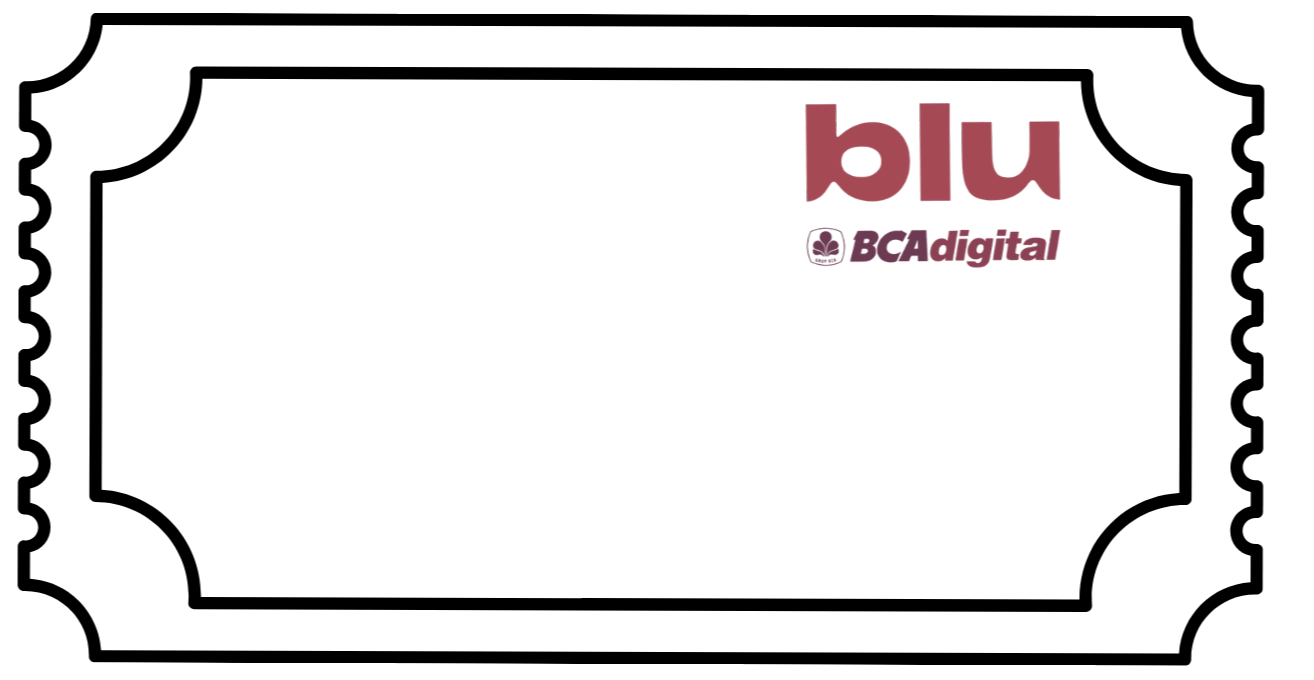
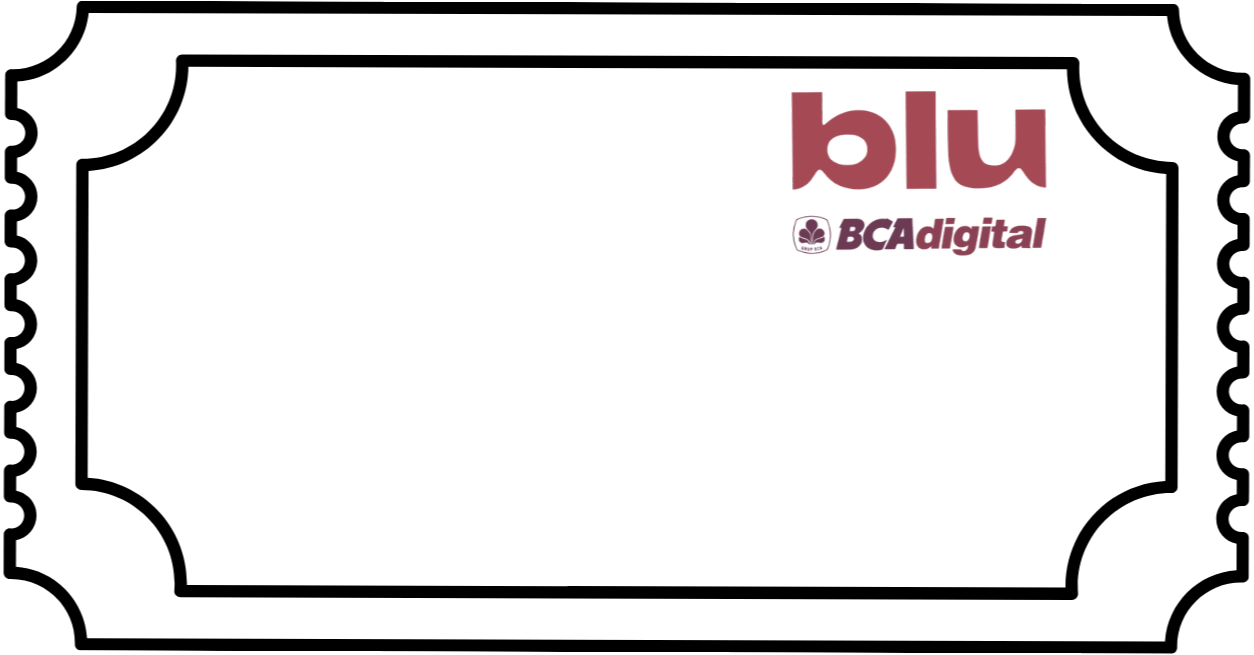
tampilkan semua rekening dan update gambar rekening

Changed region(s): [[0.0, 0.0, 1.0, 1.0], [0.5909, 0.3359, 0.8397, 0.3969]]

diff --git a/src/components/invite/gift-section.tsx b/src/components/invite/gift-section.tsx
@@ -23,7 +23,6 @@ export default function GiftSection({ bankAccounts, qris, settings }: GiftSectio
 
   const [showModal, setShowModal] = useState(false);
   const [copiedId, setCopiedId] = useState<string | null>(null);
-  const primaryAccount = bankAccounts[0] ?? null;
 
   const handleCopy = useCallback(async (account: BankAccount) => {
     try {
@@ -169,68 +168,70 @@ export default function GiftSection({ bankAccounts, qris, settings }: GiftSectio
               </div>
 
               <div className="space-y-6">
-                {hasTransfer && primaryAccount && (
-                  <motion.div
-                    variants={containerVariants}
-                    initial="hidden"
-                    animate="visible"
-                    className="space-y-4"
-                  >
-                    <div className="relative mx-auto flex max-w-[420px] justify-center">
-                      <Image
-                        src="/images/rekening.png"
-                        alt="Rekening pembayaran"
-                        width={760}
-                        height={420}
-                        className="h-auto w-full object-contain"
-                        priority
-                      />
+                {hasTransfer &&
+                  bankAccounts.map((account, index) => (
+                    <motion.div
+                      key={account.id}
+                      variants={containerVariants}
+                      initial="hidden"
+                      animate="visible"
+                      className="space-y-4"
+                    >
+                      <div className="relative mx-auto flex max-w-[420px] justify-center">
+                        <Image
+                          src={index === 0 ? "/images/rekening.png" : "/images/rekening2.png"}
+                          alt="Rekening pembayaran"
+                          width={760}
+                          height={420}
+                          className="h-auto w-full object-contain"
+                          priority={index === 0}
+                        />
 
-                      <div className="absolute inset-0 flex flex-col justify-center gap-3 px-[14%] py-[18%] text-left sm:gap-4">
-                        <div className="space-y-1">
-                          <div className="font-bold uppercase tracking-[0.16em]" style={{ color: themeColors.primary, fontSize: "clamp(1.8rem, 4vw, 2.6rem)" }}>
-                            {primaryAccount.bank_name}
+                        <div className="absolute inset-0 flex flex-col justify-center gap-3 px-[14%] py-[18%] text-left sm:gap-4">
+                          <div className="space-y-1">
+                            <div className="font-bold uppercase tracking-[0.16em]" style={{ color: themeColors.primary, fontSize: "clamp(1.8rem, 4vw, 2.6rem)" }}>
+                              {account.bank_name}
+                            </div>
+
+                            <div className="font-mono text-[clamp(1rem,2.8vw,1.4rem)] tracking-[0.16em]" style={{ color: themeColors.charcoal }}>
+                              {account.account_number}
+                            </div>
                           </div>
 
-                          <div className="font-mono text-[clamp(1rem,2.8vw,1.4rem)] tracking-[0.16em]" style={{ color: themeColors.charcoal }}>
-                            {primaryAccount.account_number}
+                          <div className="flex items-center justify-between gap-3 sm:gap-4">
+                            <div className="flex min-w-0 flex-col whitespace-nowrap text-[clamp(0.8rem,2.6vw,1.2rem)]" style={{ color: themeColors.charcoal }}>
+                              <span className="font-semibold">Account name:</span>
+                              <span className="translate-x-2 font-semibold">{account.account_holder}</span>
+                            </div>
+                            <button
+                              type="button"
+                              onClick={() => handleCopy(account)}
+                              className={cn(
+                                "inline-flex shrink-0 translate-x-1 -translate-y-3 items-center gap-1.5 rounded-xl px-3 py-1.5 text-xs font-medium transition-all duration-200",
+                                copiedId === account.id ? "text-white" : "hover:shadow-sm"
+                              )}
+                              style={{
+                                backgroundColor: copiedId === account.id ? themeColors.primary : `${themeColors.primary}15`,
+                                color: copiedId === account.id ? themeColors.surface : themeColors.primary,
+                              }}
+                            >
+                              {copiedId === account.id ? (
+                                <>
+                                  <Check className="h-3 w-3" />
+                                  Tersalin
+                                </>
+                              ) : (
+                                <>
+                                  <Copy className="h-3 w-3" />
+                                  Copy
+                                </>
+                              )}
+                            </button>
                           </div>
-                        </div>
-
-                        <div className="flex items-center justify-between gap-3 sm:gap-4">
-                          <div className="flex min-w-0 flex-col whitespace-nowrap text-[clamp(0.8rem,2.6vw,1.2rem)]" style={{ color: themeColors.charcoal }}>
-                            <span className="font-semibold">Account name:</span>
-                            <span className="translate-x-2 font-semibold">{primaryAccount.account_holder}</span>
-                          </div>
-                          <button
-                            type="button"
-                            onClick={() => handleCopy(primaryAccount)}
-                            className={cn(
-                              "inline-flex shrink-0 translate-x-1 -translate-y-3 items-center gap-1.5 rounded-xl px-3 py-1.5 text-xs font-medium transition-all duration-200",
-                              copiedId === primaryAccount.id ? "text-white" : "hover:shadow-sm"
-                            )}
-                            style={{
-                              backgroundColor: copiedId === primaryAccount.id ? themeColors.primary : `${themeColors.primary}15`,
-                              color: copiedId === primaryAccount.id ? themeColors.surface : themeColors.primary,
-                            }}
-                          >
-                            {copiedId === primaryAccount.id ? (
-                              <>
-                                <Check className="h-3 w-3" />
-                                Tersalin
-                              </>
-                            ) : (
-                              <>
-                                <Copy className="h-3 w-3" />
-                                Copy
-                              </>
-                            )}
-                          </button>
                         </div>
                       </div>
-                    </div>
-                  </motion.div>
-                )}
+                    </motion.div>
+                  ))}
 
                 {hasQris && (
                   <motion.div
